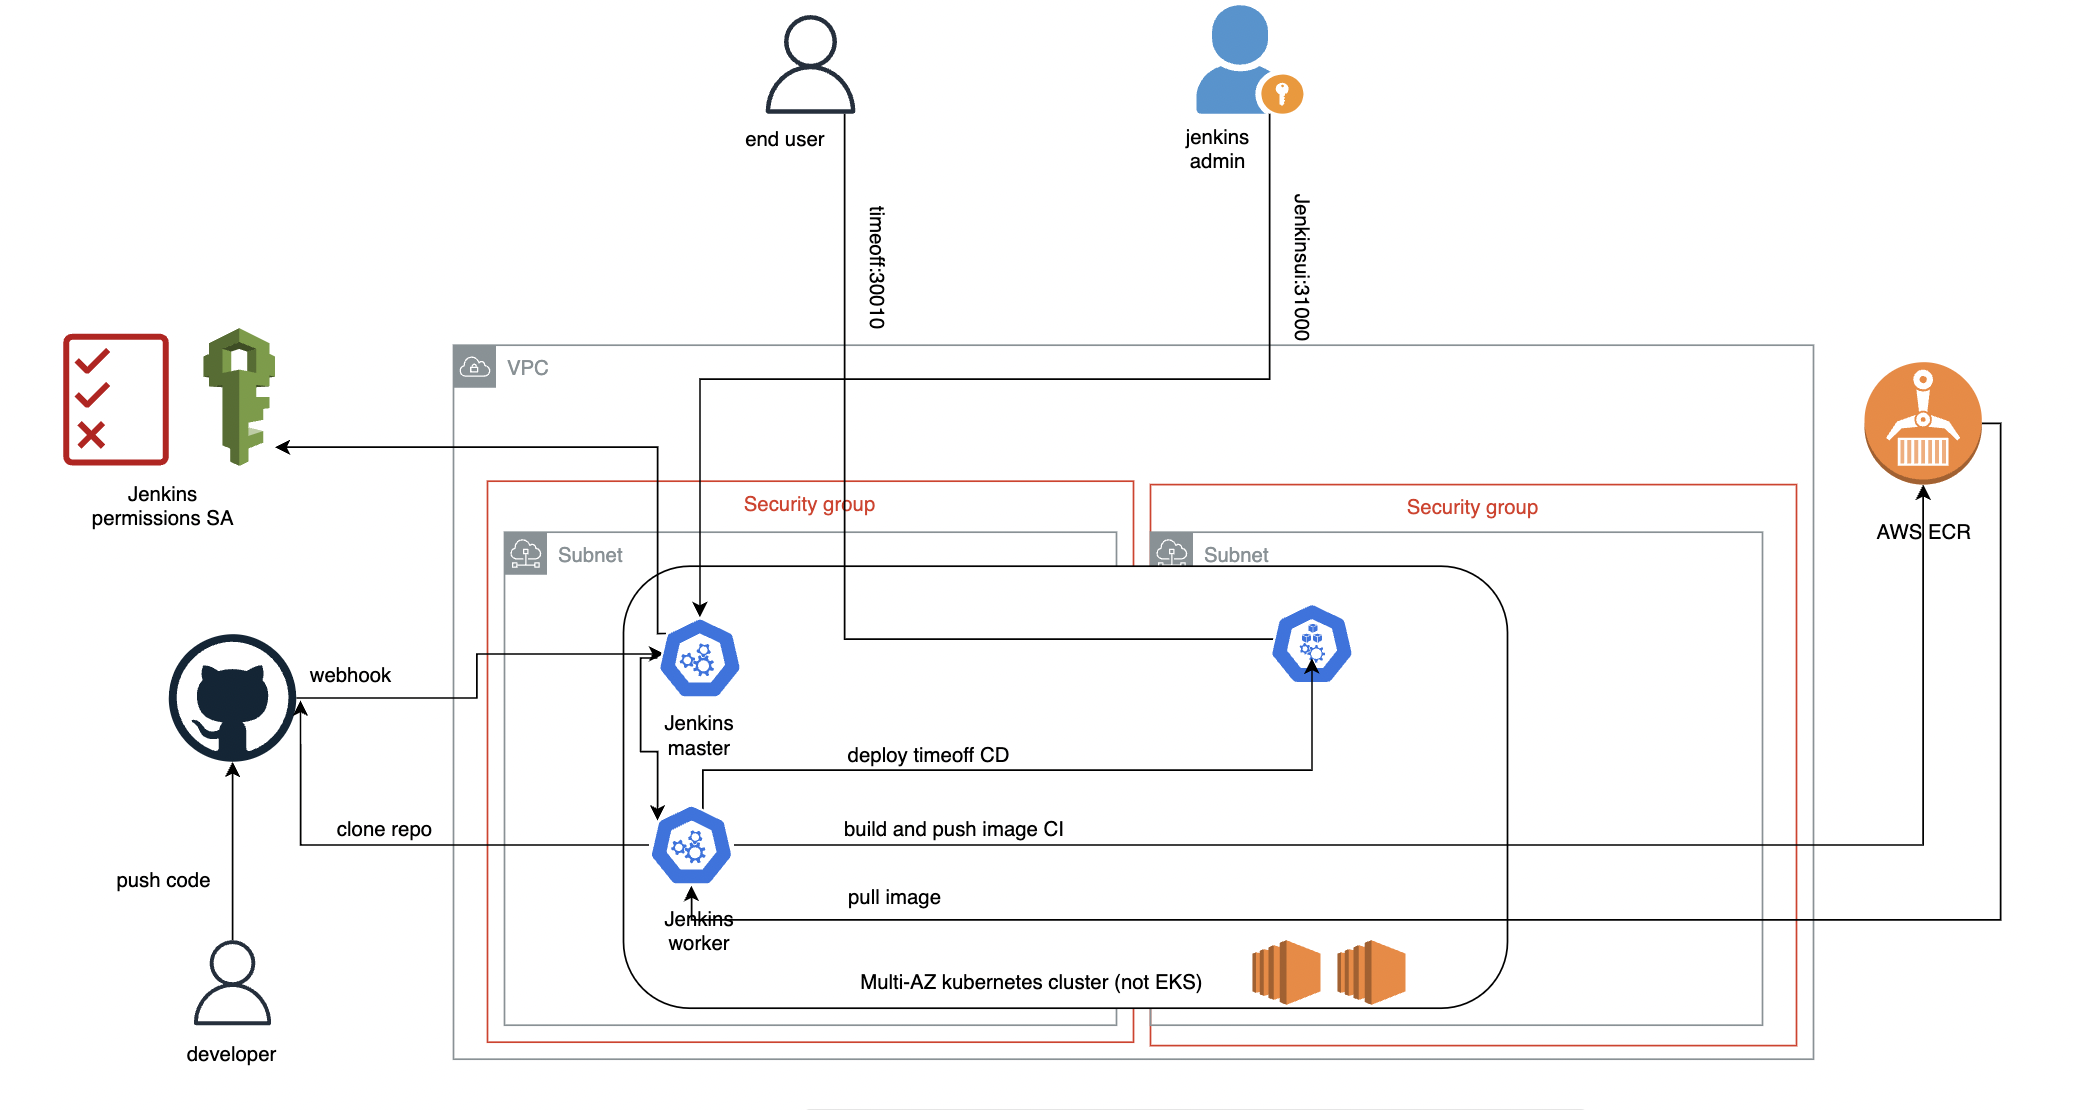
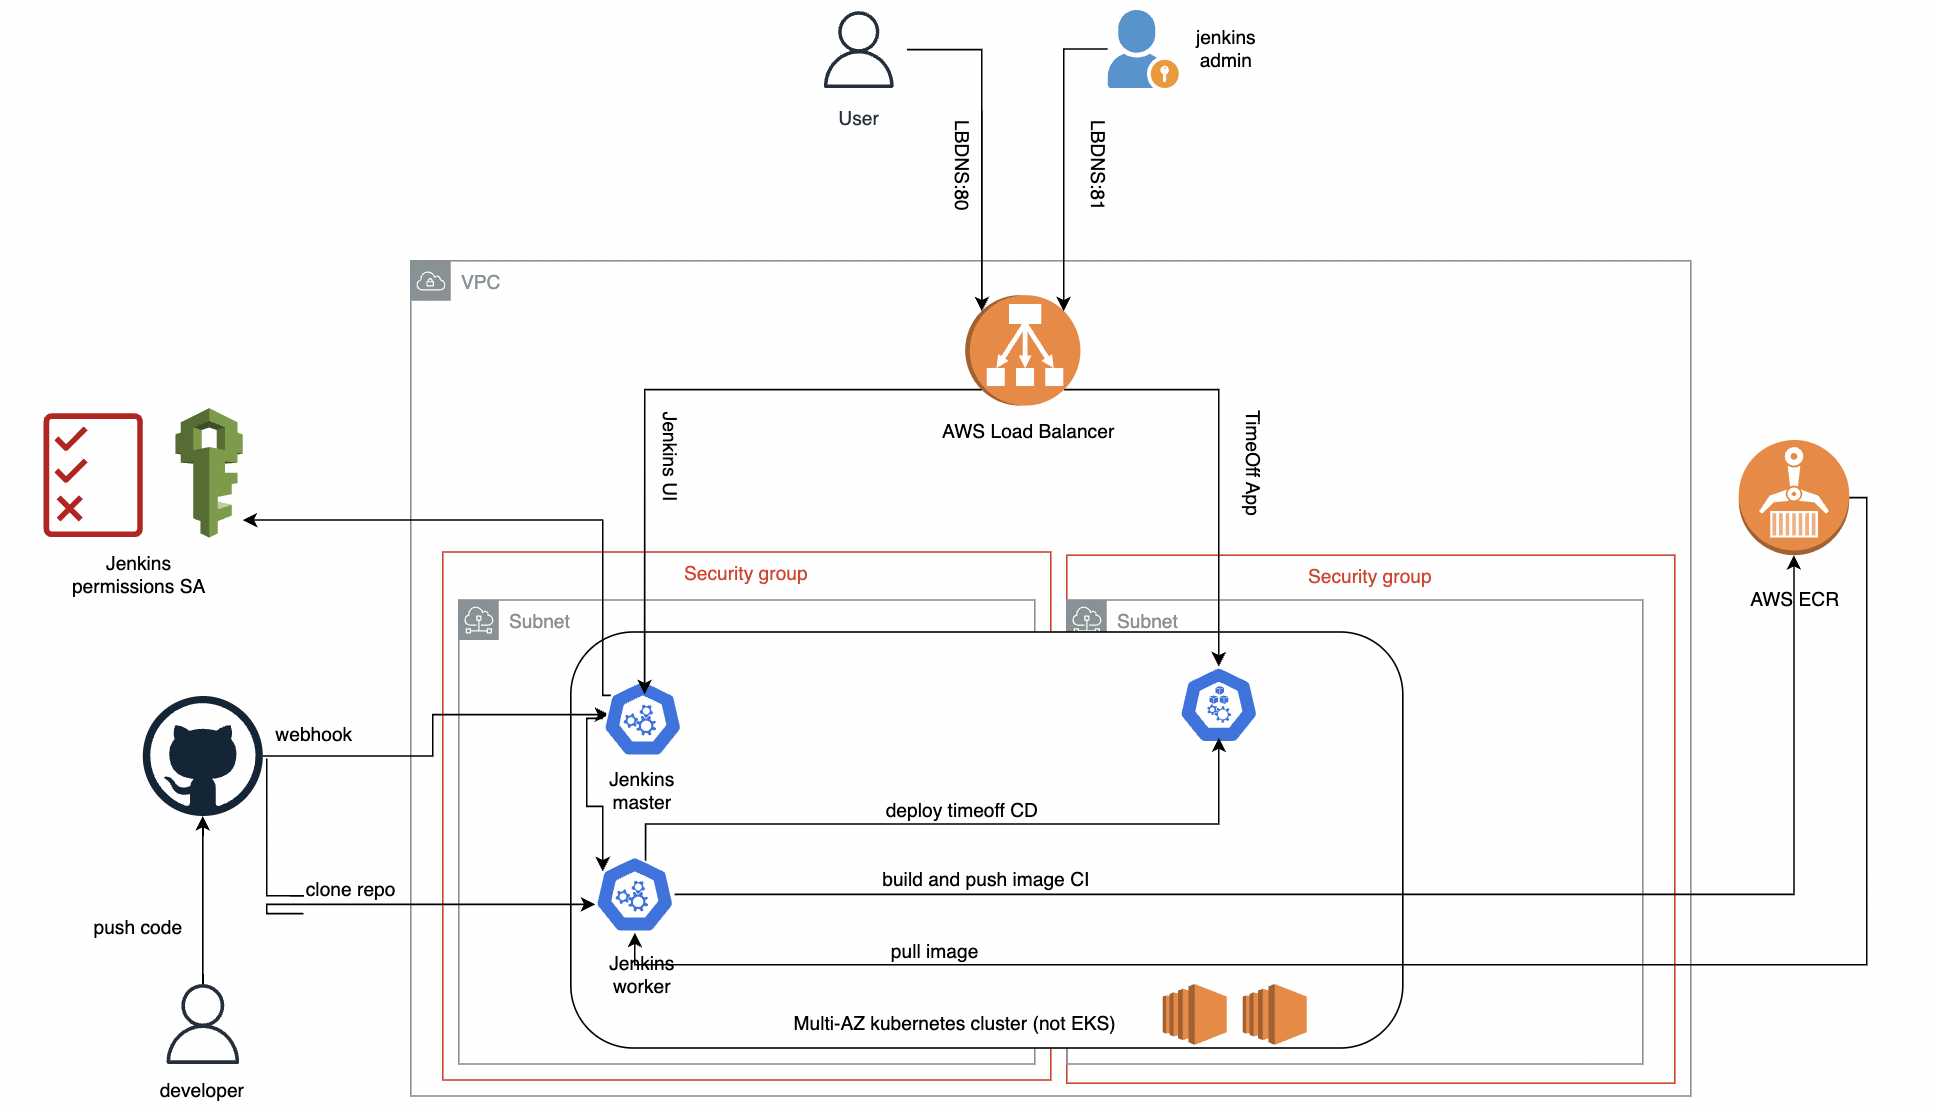
fix LB

diff --git a/README.md b/README.md
@@ -90,8 +90,8 @@ An ingress file is also provided. However, since there's no hostname provided to
 
 To access the apps, we will use:
 
-<code>IP_ADDRESS:30010</code>: our TimeOff app listens on port 30010.
-<code>IP_ADDRESS:31000</code>: our jenkins master listens on port 31000. (use this to access UI for configs).
+<code>http://morningstar-eb36af985ddc7e69.elb.us-east-1.amazonaws.com:80</code>: To access TimeOff App.
+<code>http://morningstar-eb36af985ddc7e69.elb.us-east-1.amazonaws.com:81</code>: To access Jenkins Master UI.
 
 ## Considerations
 
